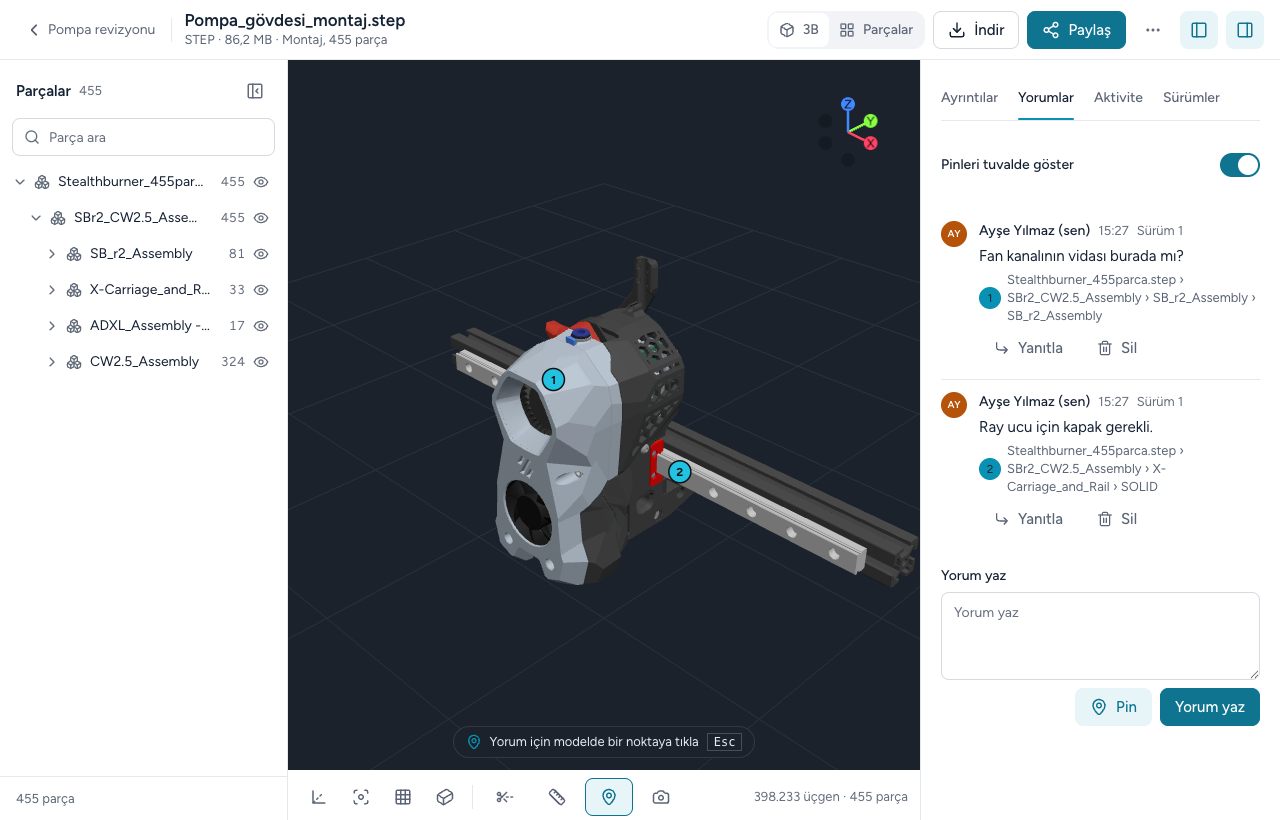
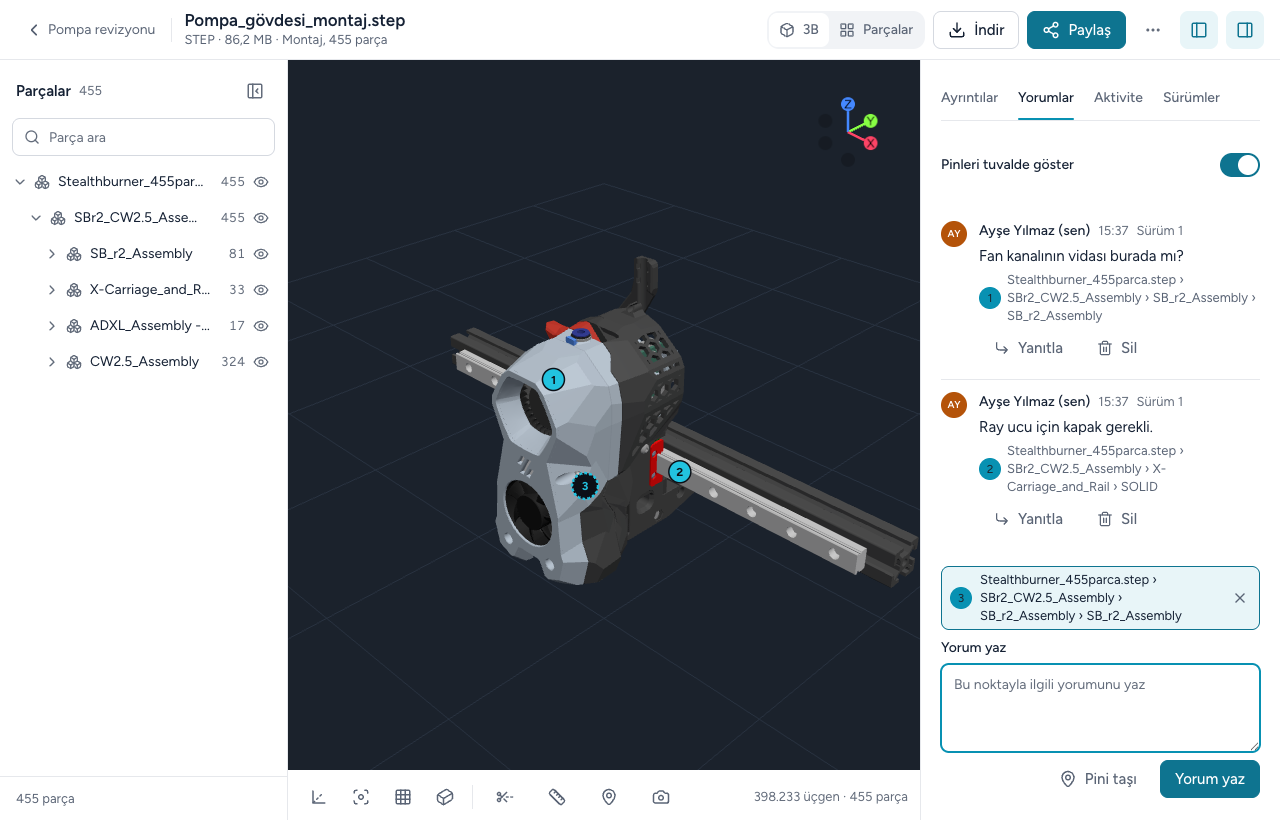
5d-2: screenshots (pins, saved views) and docs/11 notes

diff --git a/docs/11-viewer-design.md b/docs/11-viewer-design.md
@@ -557,3 +557,33 @@ Branch `rewrite-faz5d`, 27 Kasım 2026. Görev iki parçaya bölündü (görevde
 3. **Kesit tutamağı tuvale çizilir**, DOM düğmesi değil (satır içi stil yasağı); klavyeyle kesit kaydırıcıdan ayarlanır.
 4. **"Görünüme kaydet"** düğmesi kayıtlı görünümler arayüzüyle 5d-2'de gelir.
 5. **Masaüstü "Fare ve klavye" kartı ve kısayollar** (F, 0–4) eklenmedi; Escape kartı kapatır.
+
+### 5d-2 · Yapılanlar
+
+- **Migration `0018_comment_anchor`** (tek nullable `ADD COLUMN`: `file_comments.anchor text CHECK(anchor IS NULL OR length(anchor) <= 1024)`; `check-migrations` geçiyor). Test `migration0018.test.ts`: eski yorumlar aynen (`anchor` NULL), legacy'nin sütunu anmayan yazımı çalışıyor, uzunluk sınırı. Staging'e **uygulanmadı** (uzak D1 komutu yok): `pnpm db:migrate:staging` ile 0017 ve 0018 birlikte.
+- **Yorum pini (§4.3, B3).** `anchor` = `{ v: 1, path, point }`: düğüm yolu ve noktanın o düğümün kendi koordinatlarında yeri (kök dönüşü ne olursa olsun parçada kalır). Sürüm, yorumun zaten tuttuğu `versionNumber`. `addComment` `anchor`'ı `Schema` ile doğrular (`server/scene.ts` `CommentAnchor`: yol kuralı §1.3, sonlu sayılar ±1e12, fazla alan 400); yanıta pin olmaz (`ValidationError`); silinen yorum pinini göstermez; okunamayan kayıt "pin yok". `listComments` `anchor`'ı döndürür, misafir görünürlüğü yorumla aynı.
+  - Tuvalde: pinler araç chunk'ındaki 2B katmanda numaralı daire; gizli ya da kesitle kesilen parçadaki pin soluk. Pine basmak yorumunu seçer (Yorumlar sekmesi açılır, yorum görünür olur); seçme yerine geçer. Ekran görüntüsünde pinler B8 gereği varsayılan dahil, kartta "Yorum pinlerini ekle".
+  - Yerleştirme: araç çubuğunda "Yorum pini" (telefonda "Yorum", B5 sırası) ya da yorum alanındaki "Pin" → modelde bir tık/dokunuş → Yorumlar sekmesi, yorum alanının üstünde pin çipi (numara + parça yolu, kaldır), "Pini taşı". Yalnız `comment` yetkisiyle ve açık modelde.
+  - Listede: bu sürümün pini numara + parça yolu (basınca pin vurgulanır ve parça seçilir); gizli parçada "· gizli · Göster" (gösterir, gerekirse yalıtımdan çıkar); başka sürümde bırakılan pin listede kalır, çizilmez: "Pin Sürüm N üzerinde bırakıldı; bu sürümde gösterilmez". "Pinleri tuvalde göster" anahtarı.
+  - Yorumlar sayfanın durumuna taşındı (`useComments`): sekme listeler, tuval aynı listeden pin çizer.
+- **Kayıtlı görünümler** (§3.1, §4.4): Ayrıntılar sekmesinde "Kayıtlı görünümler" (görünüş bölümünün altında). Herkes uygular: kamera (araç chunk'ı `camera.set`), görünümün gizli parçaları yalnız bu ekranda (B2, `viewHidden`), kesit (düzlemden ayara geri, `sectionFromPlane`); yalıtım varsa çıkılır. Masaüstünde düzenleme yetkilisi kaydeder (ad, boşsa "Görünüm N") ve siler; kesit kartında "Görünüme kaydet". Kayıt anındaki kamera, ekranda gizli parçalar ve kesit düzlemi yazılır; `savedViewsPerScene` sınırında düğme devre dışı + neden. Telefon: yalnız uygula (liste ve "Daha" menüsü).
+- **Paylaşılan sayfa: `GET /s/{token}/scene`** (`getLinkScene`, `http/share.ts`, rota `src/routes/s/$token/scene.ts`): linkin gösterdiği modelin kaydı; `preview` kuralı (parola kanıtı, süre, iptal) `model` ile aynı; yazma yok, önceki modelin kaydı yok, `updatedBy` her zaman `null`, kayıt erişimi denetim kaydına girmez (dosyanın baytı değil). Sorgu dizgisi 400, başka site 403, bağlantı başlıkları (`no-referrer`, `no-store`). Sayfa renkleri ve kalıcı gizlemeleri uygular, kayıtlı görünümleri listeler (yalnız uygula).
+- **5c'den kalan: sayfadan tamamen çıkınca kaybolan değişiklik.** `useScene`'e `onLost` geri çağırması: sayfanın üstündeki toast sağlayıcısına (`__root` `UiProvider`) gider; sayfa kapandıktan sonra düşen kayıt da bildirilir. Sayfadaki sayaç tabanlı bildirim kaldırıldı (çift bildirim olmasın), `lost` sayacı test için duruyor.
+- **Testler:** `comments.test.ts` (pin yazma/okuma, yanıtta pin yok, bozuk kayıt, silinen yorum), `app.test.ts` (anchor sınırları 400), `shareLinks.test.ts` + `share.test.ts` (`/s/{token}/scene`: yazar adı yok, iptal, parola, başlıklar, denetim yok), `tools.test.ts` (pin yerel koordinatı, pine basınca seçim, ölçünün `stop`'u başkasının tıklamasını almıyor), `math.test.ts` (düzlem ↔ ayar), `CommentsTab.pins.test.tsx`, `FileDetailPage.studio.test.tsx` (görünüm uygula/kaydet, telefonda yalnız uygula), `SharePage.test.tsx` (kayıt uygulanıyor, görünüm uygulanıyor, kaydetme yok), `useScene.test.ts` (sayfa kapandıktan sonra bildirim), `state.test.ts` (`viewHidden`).
+- **Ölçüm:** görüntüleyici **158,1 KB** gzip (değişmedi), araç chunk'ı 5,2 KB.
+- **Ekran görüntüleri** `design/ui-shots/tools/` `pins-*`, `views-*` (390 ve 1280, açık/koyu); denetimde sorun yok.
+
+### 5d-2 · Sapmalar
+
+1. **Pin yerel koordinatta**, normal saklanmıyor (şema `{ v, path, point }`); pin daire olarak çizildiği için normal gerekmedi.
+2. **Pin yanıtta yok:** yanıt, başladığı yorumun pinine aittir.
+3. **Kayıtlı görünüm kaydetmek düzenleme modu istemez:** masaüstünde düzenleme yetkisi yeter (aynı uç, aynı revizyon kuralı); tel kafesteki "Görünümü düzenle" paneli içindeki liste yerine Ayrıntılar sekmesinde tek yer.
+4. **Telefonda pinden sonra odak 400 ms gecikmeli:** dokunmanın tıklaması sayfa kaydıktan sonra yeni öğeye düşüyordu (Playwright'ta Ölçü düğmesine); gecikme bunu önler.
+5. **Pin taşımak** ayrı bir sürükleme değil: "Pini taşı" yeni nokta seçtirir.
+
+### Açık kalanlar (5d)
+
+- **Gerçek telefon ölçümü** (§6 ve §9 5d kabulü): iOS Safari ve orta sınıf Android'de 15 MB GLB ilk model < 3 s, 60 sn'de çökme yok, seçme < 5 ms (BVH'sız), büyüteçli ölçü, Web Share ile görüntü, çift dokunma. Bu kullanıcı tarafından yapılmalı; yerelde yalnız Chromium + CDP dokunma olayları denendi.
+- **Staging:** `0017` ve `0018` staging D1'e uygulanmadı, Worker dağıtılmadı. Sıra: `pnpm db:migrate:staging`, staging dağıtımı, `scripts/shoot-tools.cjs` ile tekrar.
+- Lighthouse paylaşılan sayfa (§9 5d kabulü) staging'de ölçülmeli.
+- Delik merkezine yapışma, dosya birimini STEP'ten okuma, masaüstü kısayol kartı (5d-1 sapmaları).
